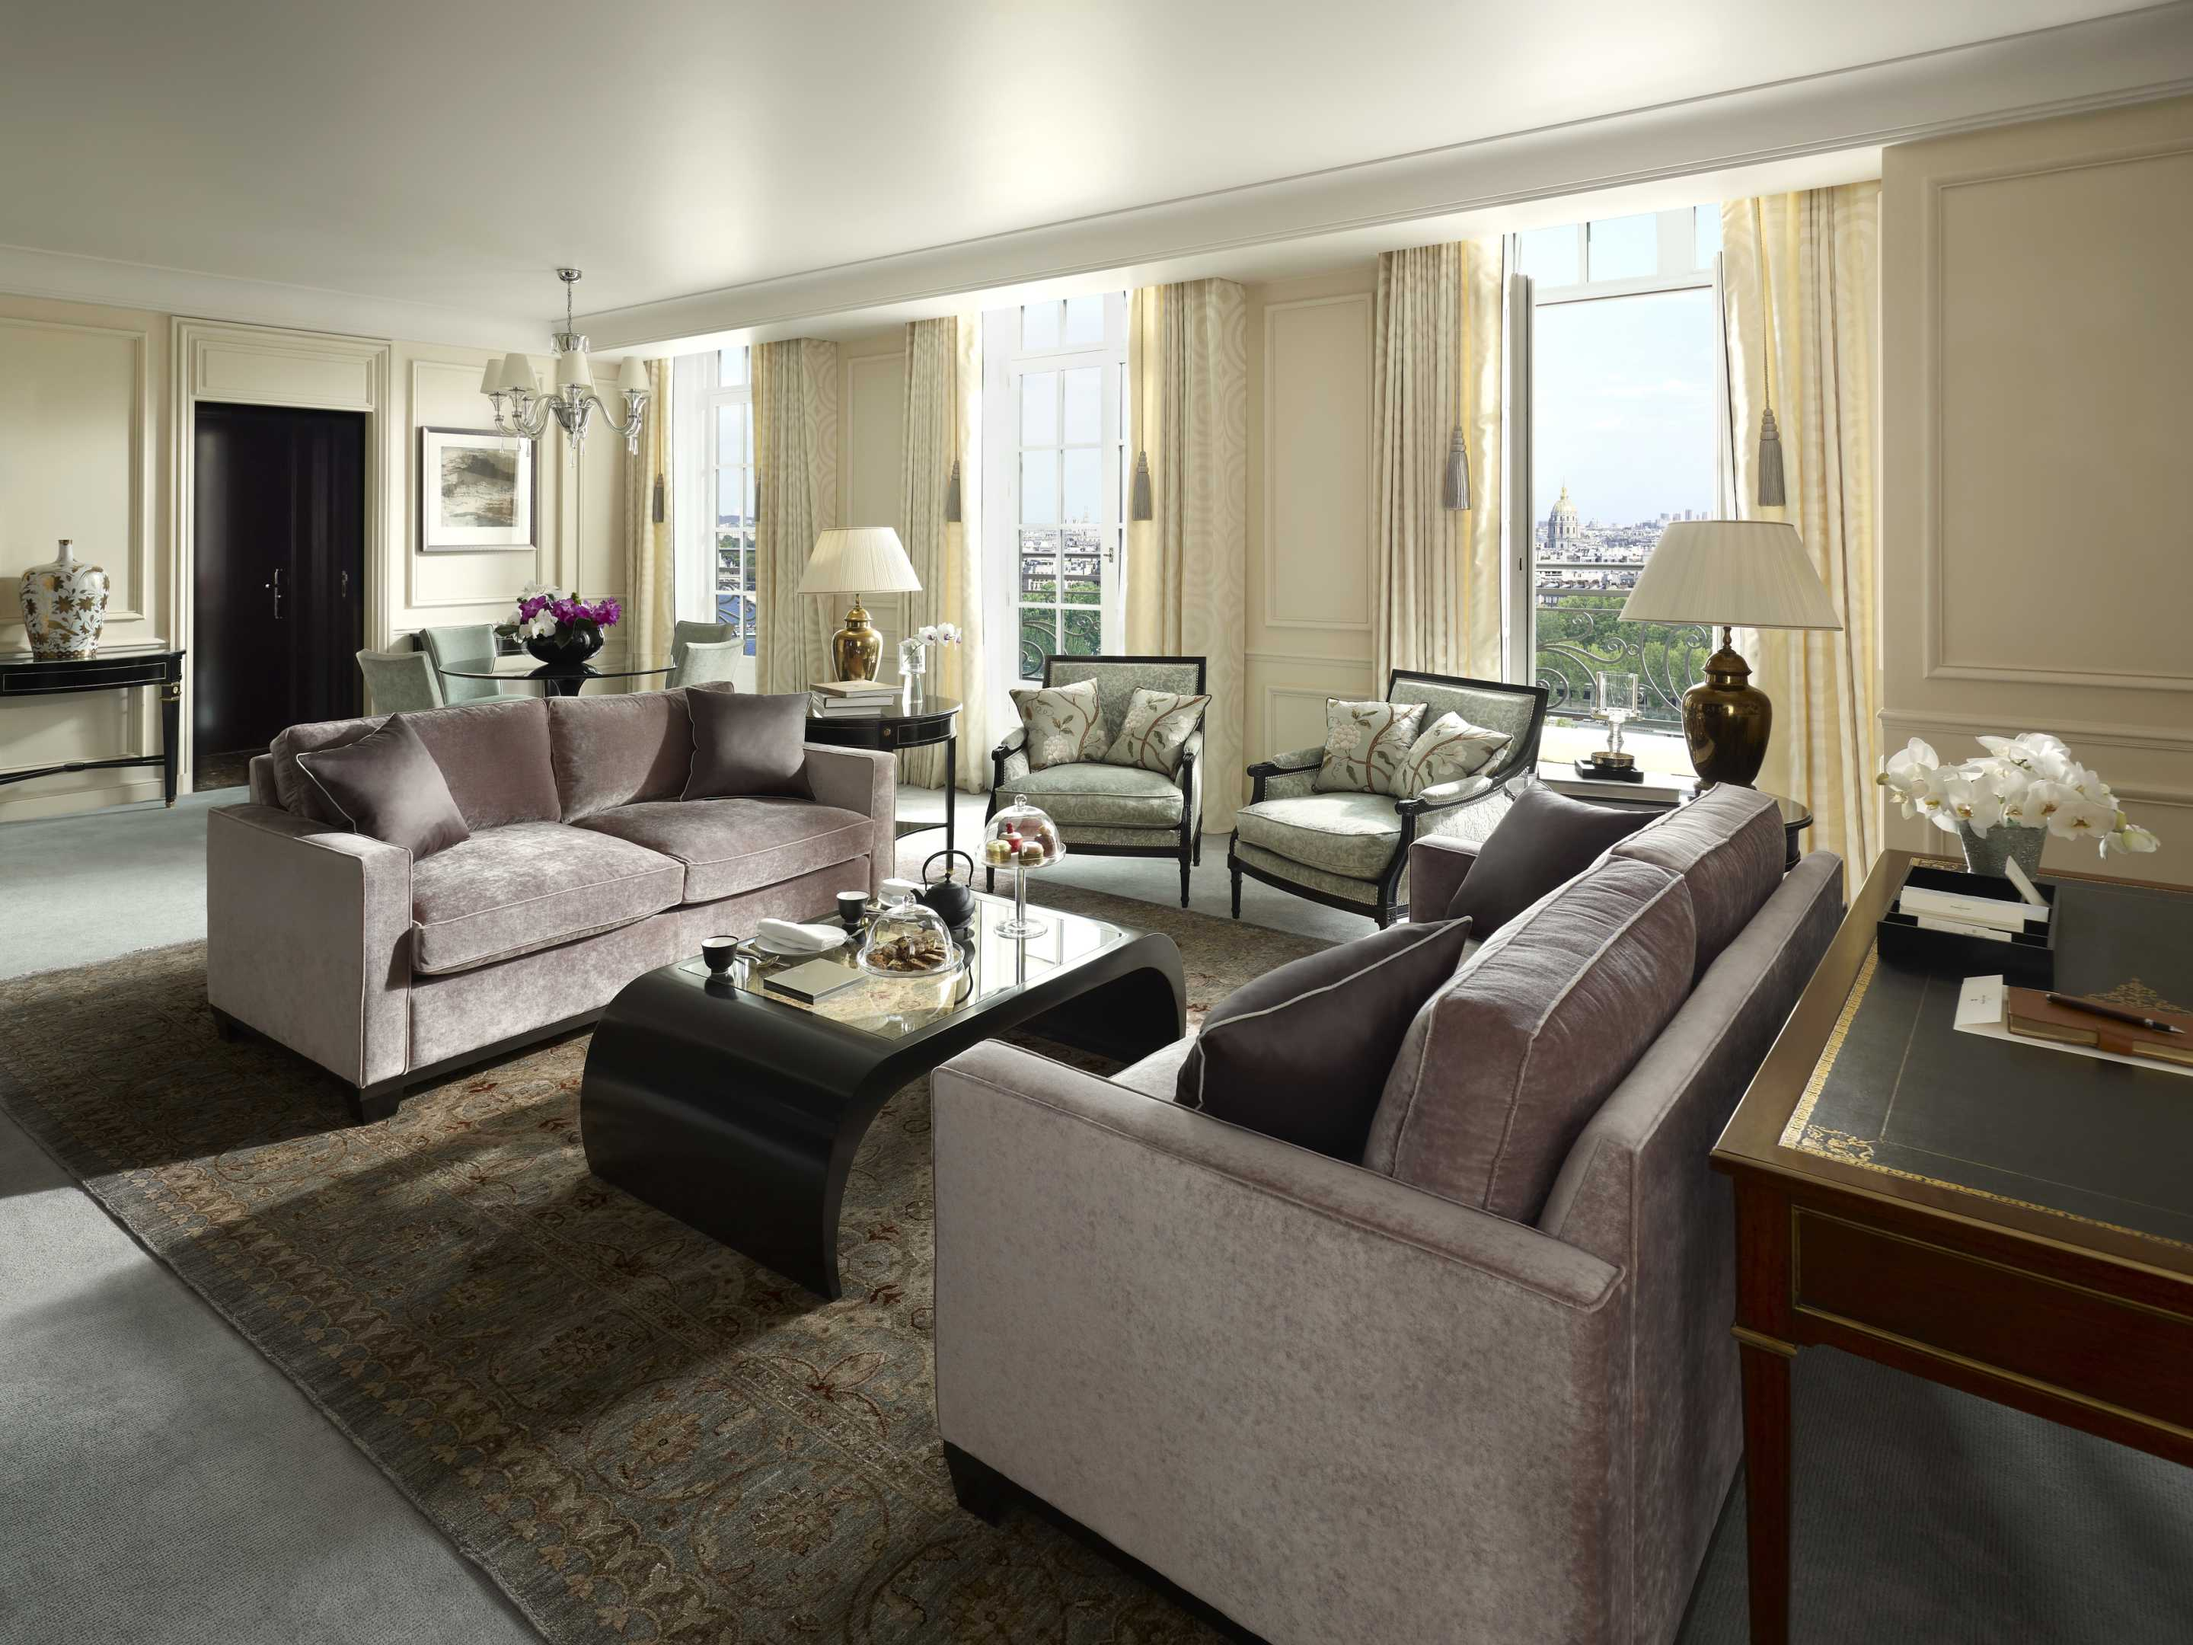
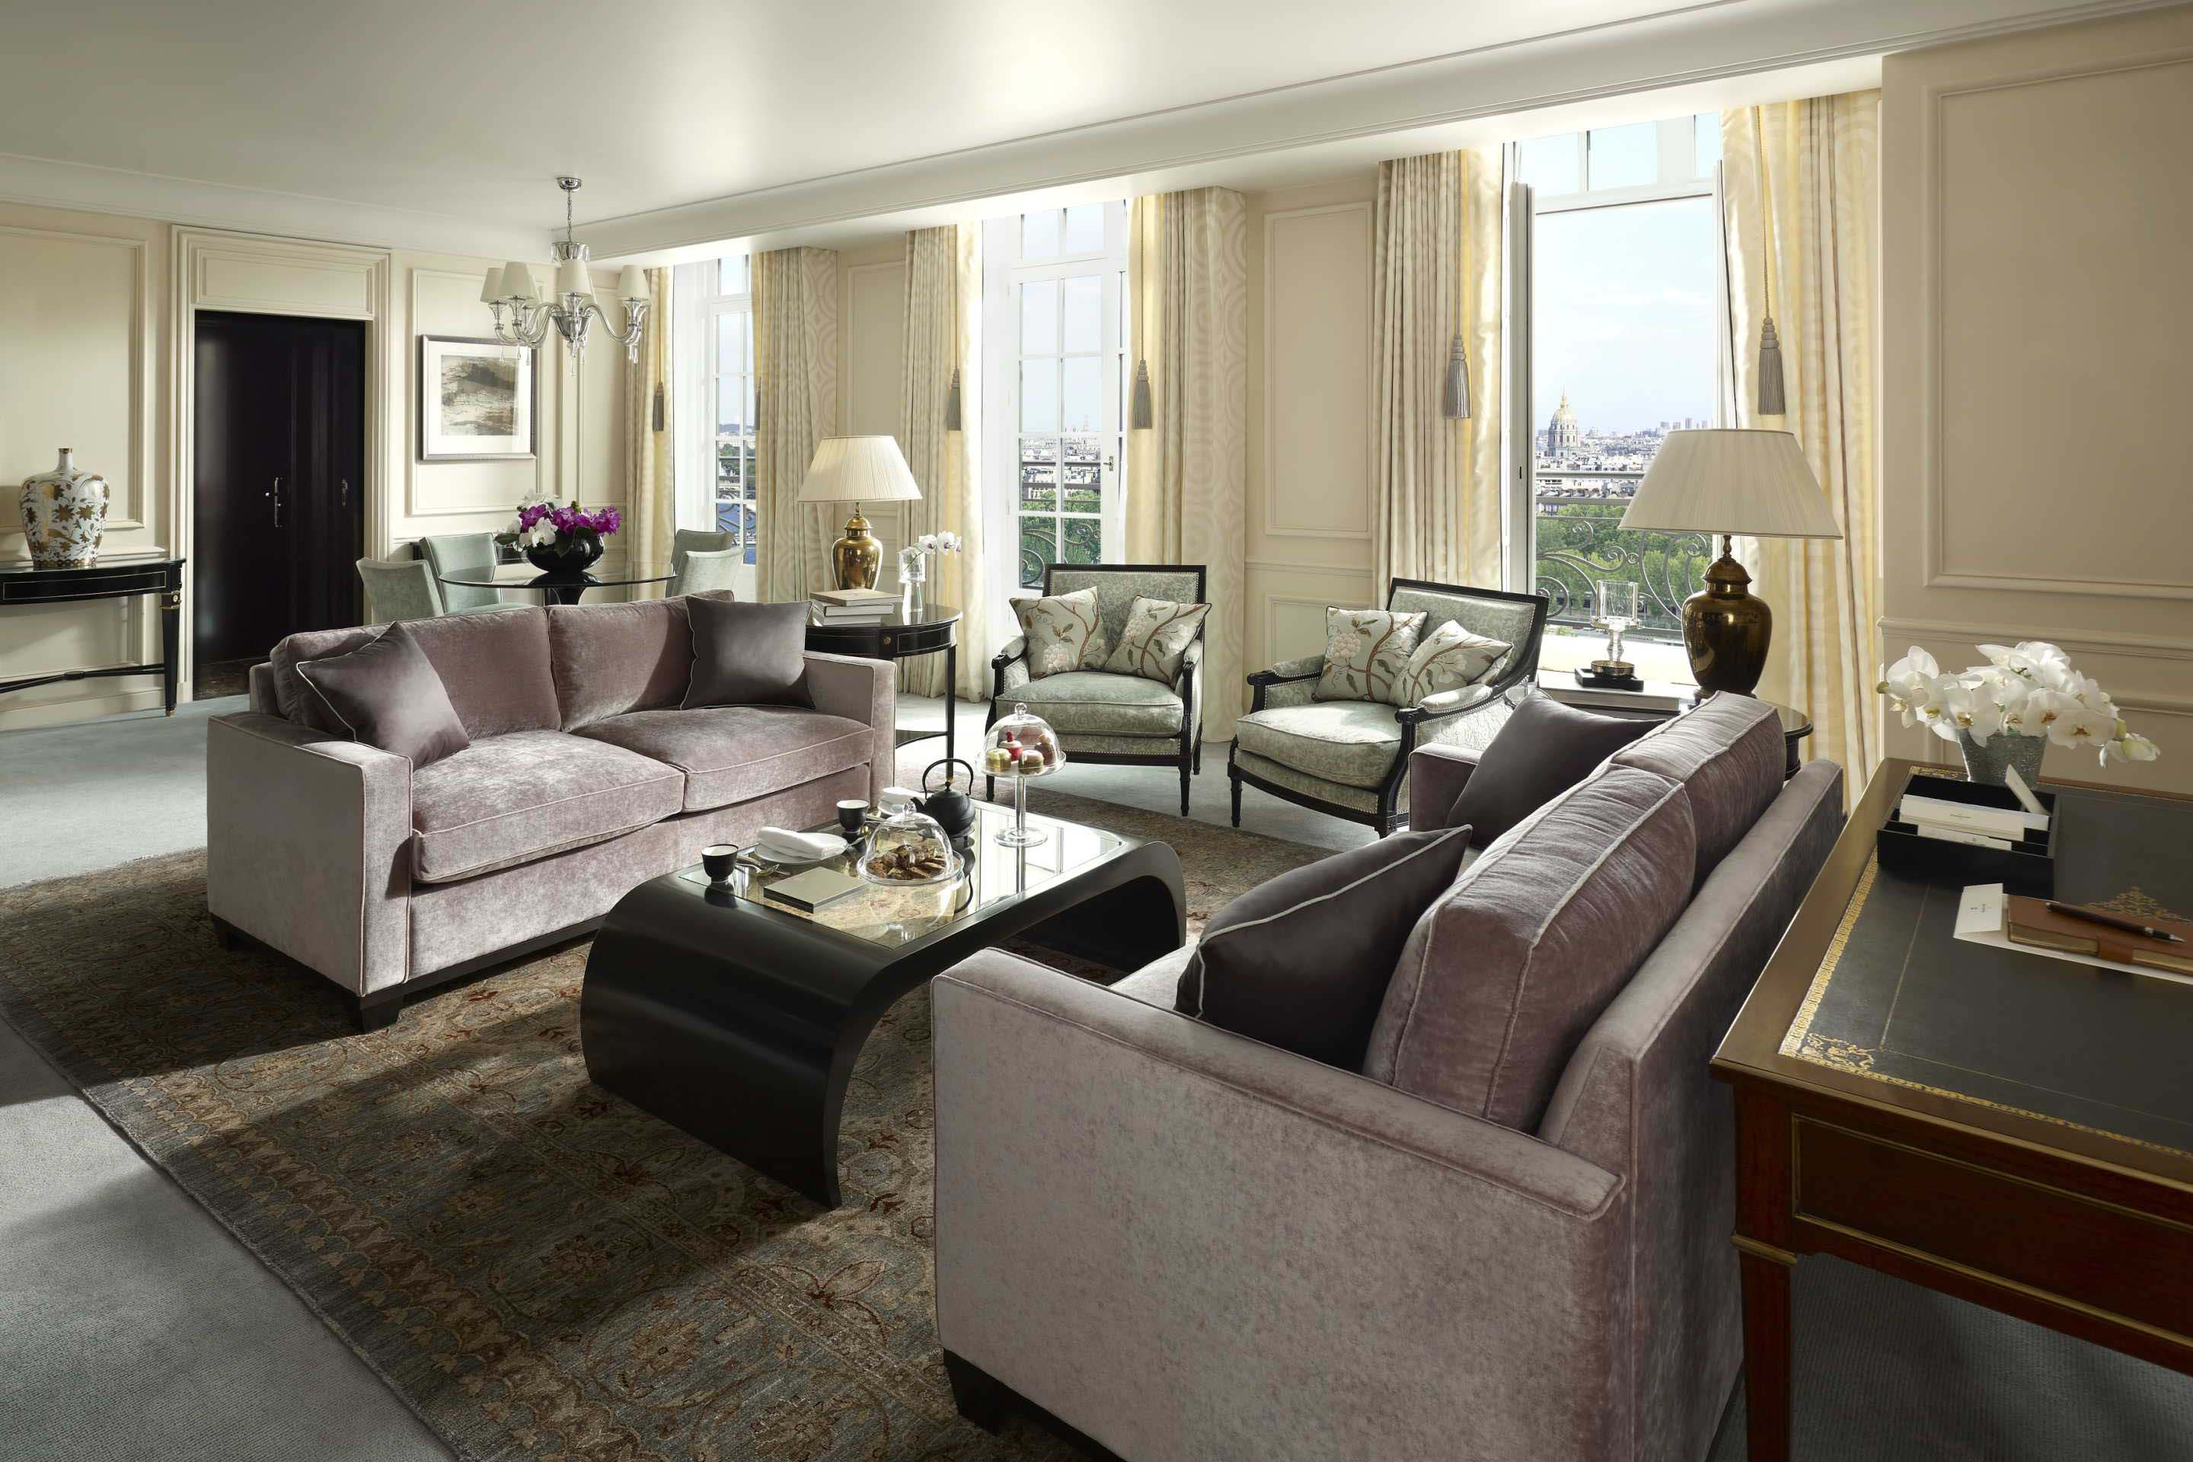
photo care et suite rezise

diff --git a/assets/css/style.css b/assets/css/style.css
@@ -188,7 +188,7 @@ h5 {
     z-index         : 2;
     color           : var(--color2);
     border          : 1.5px solid var(--color2);
-    background-color: var(--colorWhiteOpacity5);
+    background-color: var(--colorWhite);
     transition      : 1s;
 }
 
@@ -278,6 +278,9 @@ h5 {
     transform : translateX(-50%) translateY(-50%);
     top       : 80%;
     left      : 50%;
+}
+#reserveButton:hover {
+    background-color: var(--color2);
 }
 
 .imgButton {

diff --git a/restaurant.php b/restaurant.php
@@ -46,7 +46,7 @@
                     <p>Installé au calme de l’agitation parisienne, découvrez des
                         grands classiques et des créations maison concoctés
                         au feu de bois par notre Chef et son équipe.</p>
-                    <p class="linkRestaurantContainer text-center"><a class="linkRestaurant underline" href="./assets/doc/carte_suggestions_web.pdf">Découvrir</a></p>
+                    <p class="linkRestaurantContainer text-center"><a class="linkRestaurant underline" href="./assets/doc/carte_suggestions_web.pdf" target="_blank">Découvrir</a></p>
                 </div>
                 <div class="col-xl-6 col-12 mx-auto ml-0 mr-0 p-0 d-xl-block d-none">
                     <img src="./assets/img/restaurant/restaurant06.jpg" class="img-fluid" alt="plat 1">
@@ -58,7 +58,7 @@
                     <div class="carteDescription text-center col-xl-6 col-12 mx-auto ml-0 mr-0 px-5">
                         <h5>Carte Dégustation</h5>
                         <p> Une carte riche et colorée aux saveur d'autres mondes. Proposé en 6 escales, ce menu gourmand dévoile des produits d’exception – dont certains issus du jardin du Chef - sublimés par d’audacieuses associations de saveurs.</p>
-                        <p class="linkRestaurantContainer text-center"><a class="linkRestaurant underline" href="./assets/doc/carte_suggestions_web.pdf">Découvrir</a></p>
+                        <p class="linkRestaurantContainer text-center"><a class="linkRestaurant underline" href="./assets/doc/carte_suggestions_web.pdf" target="_blank">Découvrir</a></p>
                     </div>
                     <div class="col-xl-6 col-12 mx-auto ml-0 mr-0 p-0 d-xl-none ">
                         <img src="./assets/img/restaurant/restaurant14.jpg" class="img-fluid" alt="plat 3">
@@ -66,7 +66,7 @@
                     <div class="carteDescription text-center col-xl-6 col-12 mx-auto ml-0 mr-0 px-5">
                         <h5>Carte Restaurant</h5>
                         <p> Notre chef Damian Vera et son équipe sont impatients d’accueillir les amoureux de la gastronomie. Découvrez une cuisine créative et raffinée, dans une ambiance intime et chaleureuse.</p>
-                        <p class="linkRestaurantContainer text-center"><a class="linkRestaurant underline" href="./assets/doc/carte_suggestions_web.pdf">Découvrir</a></p>
+                        <p class="linkRestaurantContainer text-center"><a class="linkRestaurant underline" href="./assets/doc/carte_suggestions_web.pdf" target="_blank">Découvrir</a></p>
                     </div>
                     <div class="col-xl-6 col-12 mx-auto ml-0 mr-0 p-0 d-xl-block d-none">
                         <img src="./assets/img/restaurant/restaurant14.jpg" class="img-fluid" alt="plat 3 ">

diff --git a/chambre-suite.php b/chambre-suite.php
@@ -27,7 +27,6 @@
                                 <li data-target="#monSlider" data-slide-to="1"></li>
                                 <li data-target="#monSlider" data-slide-to="2"></li>
                                 <li data-target="#monSlider" data-slide-to="3"></li>
-                                <li data-target="#monSlider" data-slide-to="4"></li>
                             </ol>
                             <div class="carousel-inner">
                                 <div class="carousel-item active">
@@ -38,9 +37,6 @@
                                 </div>
                                 <div class="carousel-item">
                                     <img src="./assets/img/room/suite08.jpg" class="d-block w-100" alt="...">
-                                </div>
-                                <div class="carousel-item">
-                                    <img src="./assets/img/room/suite05.jpg" class="d-block w-100" alt="...">
                                 </div>
                                 <div class="carousel-item">
                                     <img src="./assets/img/room/suite06.jpg" class="d-block w-100" alt="...">
